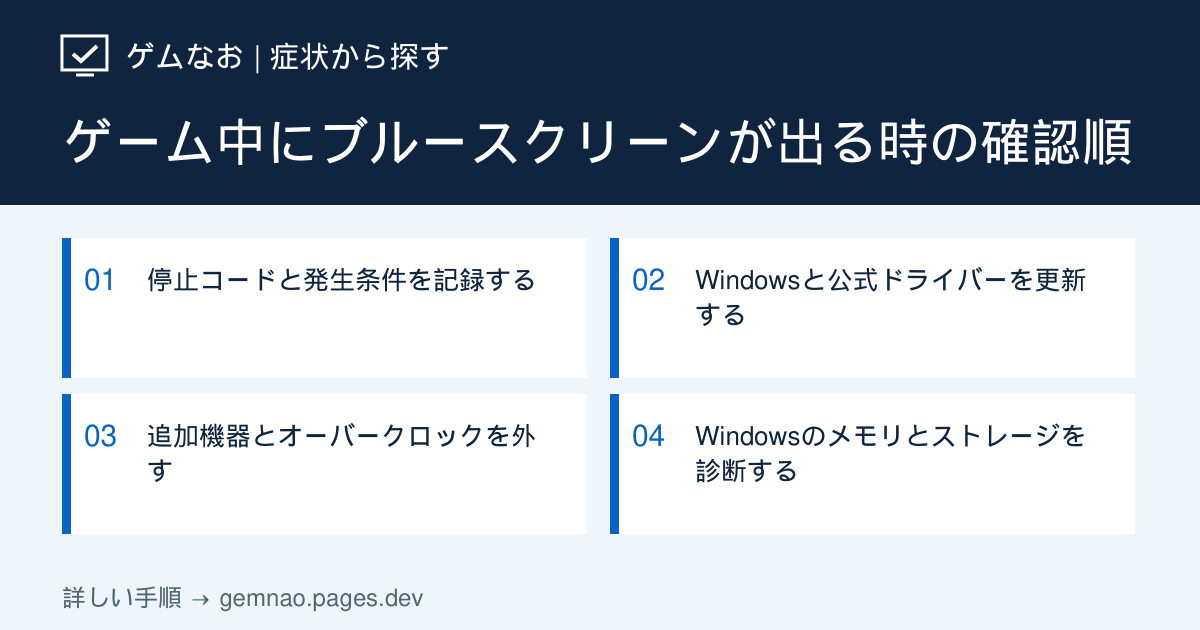
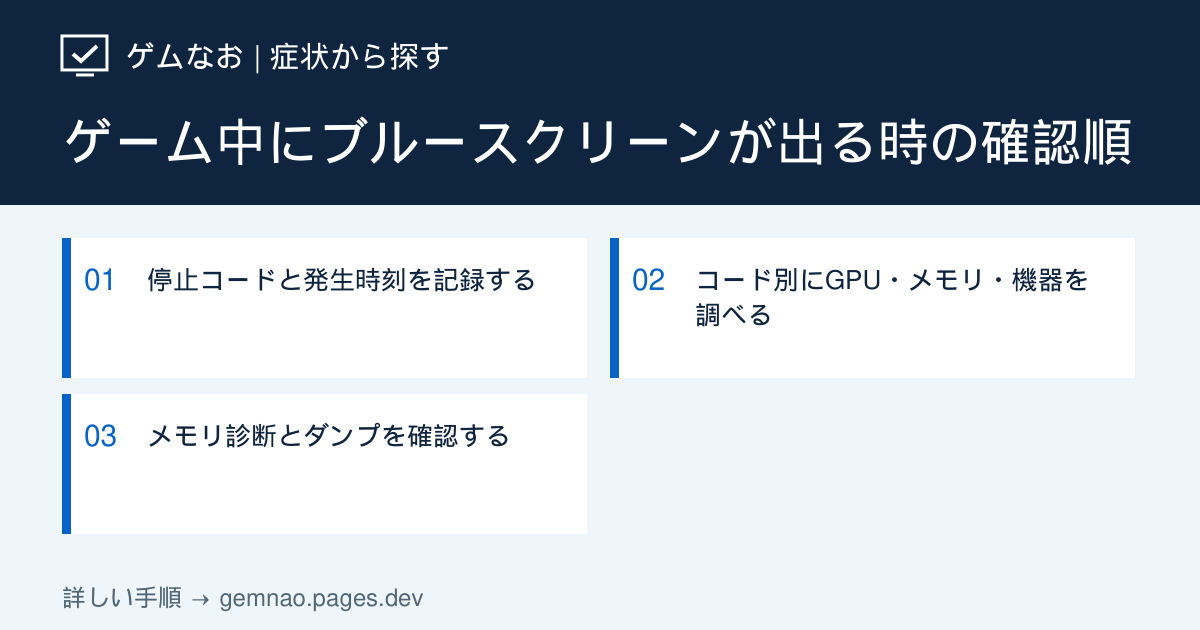
Align BSOD diagnostic illustration with updated article

diff --git a/lib/bsod-guide.ts b/lib/bsod-guide.ts
@@ -18,21 +18,21 @@ export const bsodGuide: CommonGuide = {
   ],
   steps: [
     {
-      title: '停止コードと時刻を残し、Windowsの記録を確認する',
+      title: '停止コードと発生時刻を記録する',
       actions: [
         '停止画面の「Stop code／停止コード」と、あれば「What failed／失敗した内容」のファイル名を撮影する。画面がすぐ消えたら再起動後にイベント ビューアーの「Windows ログ」→「システム」で発生時刻付近のBugCheckやWHEA-Loggerを調べる。',
         'ゲーム名、発生場面、日時、直前のWindows・GPUドライバー更新や周辺機器の変更を控える。繰り返す場合は重要ファイルをバックアップし、無理に何度も再現させない。',
       ],
     },
     {
-      title: '停止コードに合う確認先を1つずつ試す',
+      title: 'コード別にGPU・メモリ・機器を調べる',
       actions: [
         'VIDEO_TDR_FAILUREならGPU名・現在のドライバー版・更新直後かを確認する。MEMORY_MANAGEMENTやIRQL_NOT_LESS_OR_EQUALならWindowsメモリ診断と最近追加したドライバー・機器を調べる。WHEA_UNCORRECTABLE_ERRORならメーカーのハードウェア診断や冷却・標準設定を確認する。コードだけで部品の故障を断定しない。',
         'Windows 11では「スタート」→「設定」→「Windows Update」で更新を確認する。ドライバー更新の直後に悪化した場合は元の版を記録した上で戻し方を調べる。変更は1項目ずつ行い、同じ場面で比較する。',
       ],
     },
     {
-      title: 'メモリ診断の結果を読み、相談用の記録を揃える',
+      title: 'メモリ診断とダンプを確認する',
       actions: [
         '作業を保存してからWindowsの検索で「Windows メモリ診断」を開き、「今すぐ再起動して問題の有無を確認する」を選ぶ。再起動後にイベント ビューアー→「Windows ログ」→「システム」でソース「MemoryDiagnostics-Results」の結果本文を読む。',
         '「エラーは検出されませんでした」は今回の検査で未検出という意味。ブルースクリーンの原因がメモリではないと確定しない。エラーが出た場合はPCメーカーへ相談する。',
